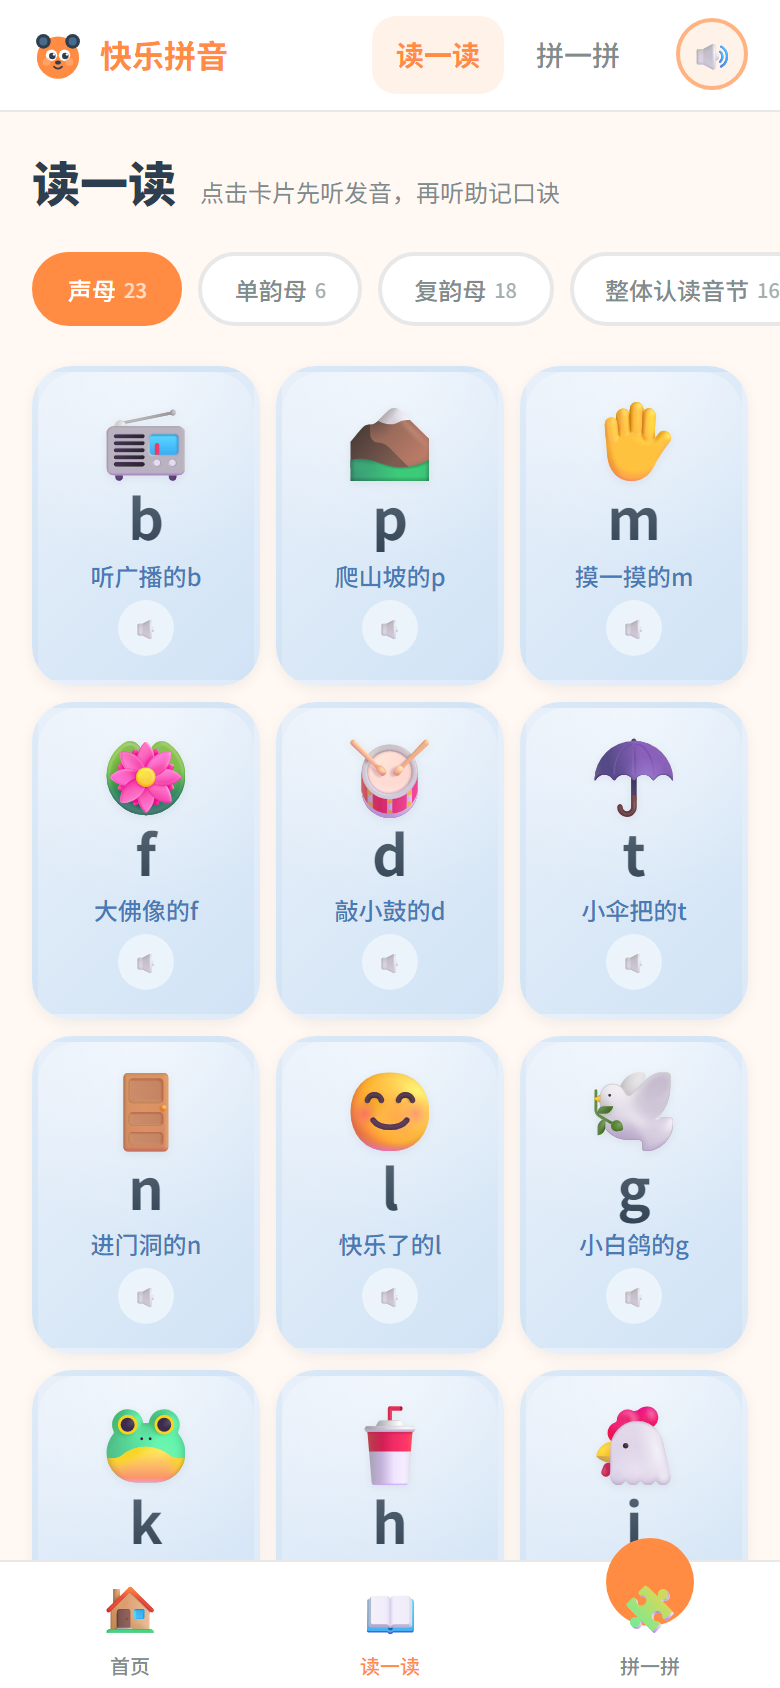
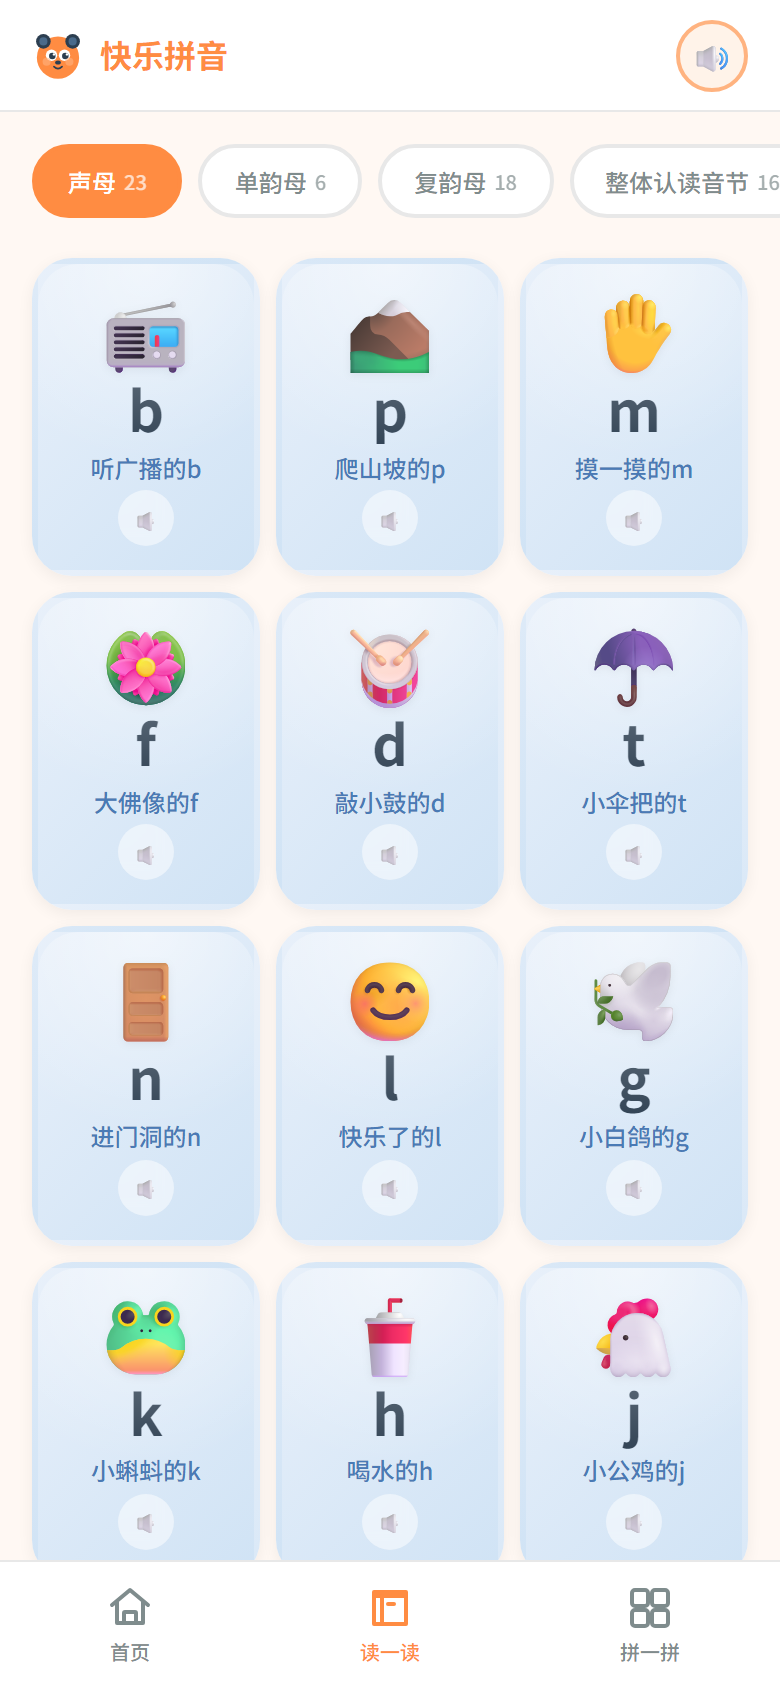
@ fix: unify mobile navigation and optimize toolbar layout
- Bottom nav: always visible on all pages, SVG icons replace emoji
- Header: hide nav links on mobile to avoid redundancy with bottom nav
- BrowserPage: hide redundant title/subtitle on mobile
- BuilderPage: switch toolbar from 3-col grid to stacked flex on mobile
@

diff --git a/src/components/layout/MobileNav.vue b/src/components/layout/MobileNav.vue
@@ -7,15 +7,31 @@ const route = useRoute()
 <template>
   <nav class="mobile-nav">
     <RouterLink to="/" class="nav-item" :class="{ active: route.name === 'home' }">
-      <span class="nav-icon">🏠</span>
+      <svg width="24" height="24" viewBox="0 0 24 24" fill="none" stroke="currentColor" stroke-width="2" stroke-linecap="round" stroke-linejoin="round">
+        <path d="M3 10.5L12 3l9 7.5"/>
+        <path d="M5.5 9v10.5h13V9"/>
+        <rect x="9" y="14" width="6" height="5.5" rx="0.5"/>
+      </svg>
       <span class="nav-label">首页</span>
     </RouterLink>
+
     <RouterLink to="/browser" class="nav-item" :class="{ active: route.name === 'browser' }">
-      <span class="nav-icon">📖</span>
+      <svg width="24" height="24" viewBox="0 0 24 24" fill="none" stroke="currentColor" stroke-width="2" stroke-linecap="round" stroke-linejoin="round">
+        <path d="M4 4h16v16H4z" stroke="currentColor" fill="none"/>
+        <path d="M4 6h16"/>
+        <path d="M8 6v14"/>
+        <path d="M11 10h3"/>
+      </svg>
       <span class="nav-label">读一读</span>
     </RouterLink>
-    <RouterLink to="/builder" class="nav-item builder-cta" :class="{ active: route.name === 'builder' }">
-      <span class="nav-icon">🧩</span>
+
+    <RouterLink to="/builder" class="nav-item" :class="{ active: route.name === 'builder' }">
+      <svg width="24" height="24" viewBox="0 0 24 24" fill="none" stroke="currentColor" stroke-width="2" stroke-linecap="round" stroke-linejoin="round">
+        <rect x="3" y="3" width="8" height="8" rx="1.5"/>
+        <rect x="13" y="3" width="8" height="8" rx="1.5"/>
+        <rect x="13" y="13" width="8" height="8" rx="1.5"/>
+        <rect x="3" y="13" width="8" height="8" rx="1.5"/>
+      </svg>
       <span class="nav-label">拼一拼</span>
     </RouterLink>
   </nav>
@@ -50,32 +66,13 @@ const route = useRoute()
   color: var(--color-brand-orange);
 }
 
-.nav-icon {
-  font-size: var(--font-size-xl);
+.nav-item svg {
+  flex-shrink: 0;
 }
 
 .nav-label {
   font-size: var(--font-size-xs);
   font-weight: 500;
-}
-
-.builder-cta {
-  position: relative;
-}
-
-.builder-cta::before {
-  content: '';
-  position: absolute;
-  top: -12px;
-  width: 44px;
-  height: 44px;
-  background: var(--color-brand-orange);
-  border-radius: var(--radius-full);
-  z-index: -1;
-}
-
-.builder-cta.active {
-  color: var(--color-surface);
 }
 
 @media (min-width: 768px) {

diff --git a/src/App.vue b/src/App.vue
@@ -1,12 +1,7 @@
 <script setup lang="ts">
-import { computed } from 'vue'
-import { useRoute } from 'vue-router'
 import AppHeader from '@/components/layout/AppHeader.vue'
 import MobileNav from '@/components/layout/MobileNav.vue'
 import AppFooter from '@/components/layout/AppFooter.vue'
-
-const route = useRoute()
-const showMobileNav = computed(() => route.name !== 'builder')
 </script>
 
 <template>
@@ -19,7 +14,7 @@ const showMobileNav = computed(() => route.name !== 'builder')
         </Transition>
       </RouterView>
     </main>
-    <MobileNav v-if="showMobileNav" />
+    <MobileNav />
     <AppFooter />
   </div>
 </template>

diff --git a/src/pages/BuilderPage.vue b/src/pages/BuilderPage.vue
@@ -476,4 +476,30 @@ const initialItems = computed(() =>
     padding: var(--space-2) var(--space-4);
   }
 }
+
+@media (max-width: 767px) {
+  .builder-toolbar {
+    display: flex;
+    flex-wrap: wrap;
+    align-items: center;
+    gap: var(--space-2);
+  }
+
+  .back-btn-area {
+    flex: 0 0 auto;
+  }
+
+  .stepper-wrap {
+    flex: 1 1 auto;
+    display: flex;
+    justify-content: center;
+  }
+
+  .step-prompt {
+    flex: 0 0 100%;
+    text-align: center;
+    white-space: normal;
+    margin-top: var(--space-2);
+  }
+}
 </style>

diff --git a/src/components/layout/AppHeader.vue b/src/components/layout/AppHeader.vue
@@ -151,8 +151,9 @@ const { isAutoMode, toggle } = useAudioMode()
 
 .toggle-icon { font-size: var(--font-size-md); line-height: 1; }
 
-@media (max-width: 639px) {
+@media (max-width: 767px) {
   .toggle-label { display: none; }
   .audio-toggle { min-width: 36px; justify-content: center; padding: var(--space-1); }
+  .header-nav { display: none; }
 }
 </style>

diff --git a/src/pages/BrowserPage.vue b/src/pages/BrowserPage.vue
@@ -188,4 +188,8 @@ if (tabParam && tabs.some(t => t.key === tabParam)) {
 @media (min-width: 1024px) {
   .cards-grid { grid-template-columns: repeat(8, 1fr); }
 }
+
+@media (max-width: 767px) {
+  .browser-title-row { display: none; }
+}
 </style>
